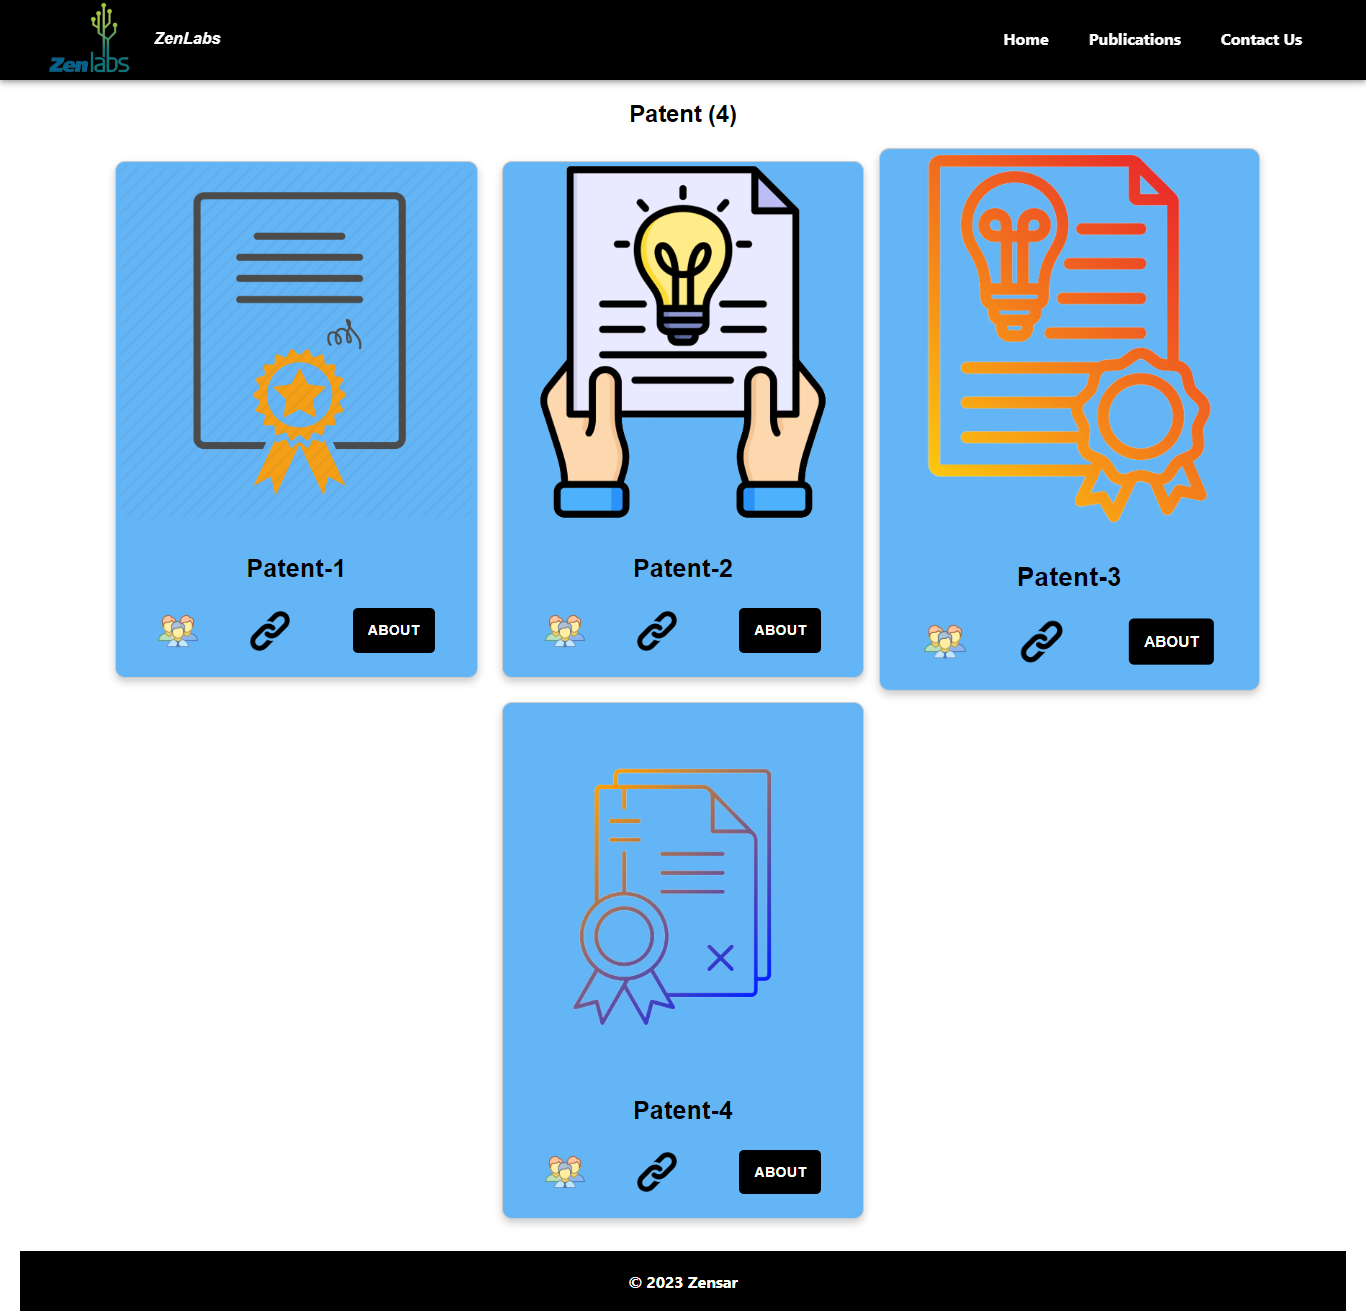
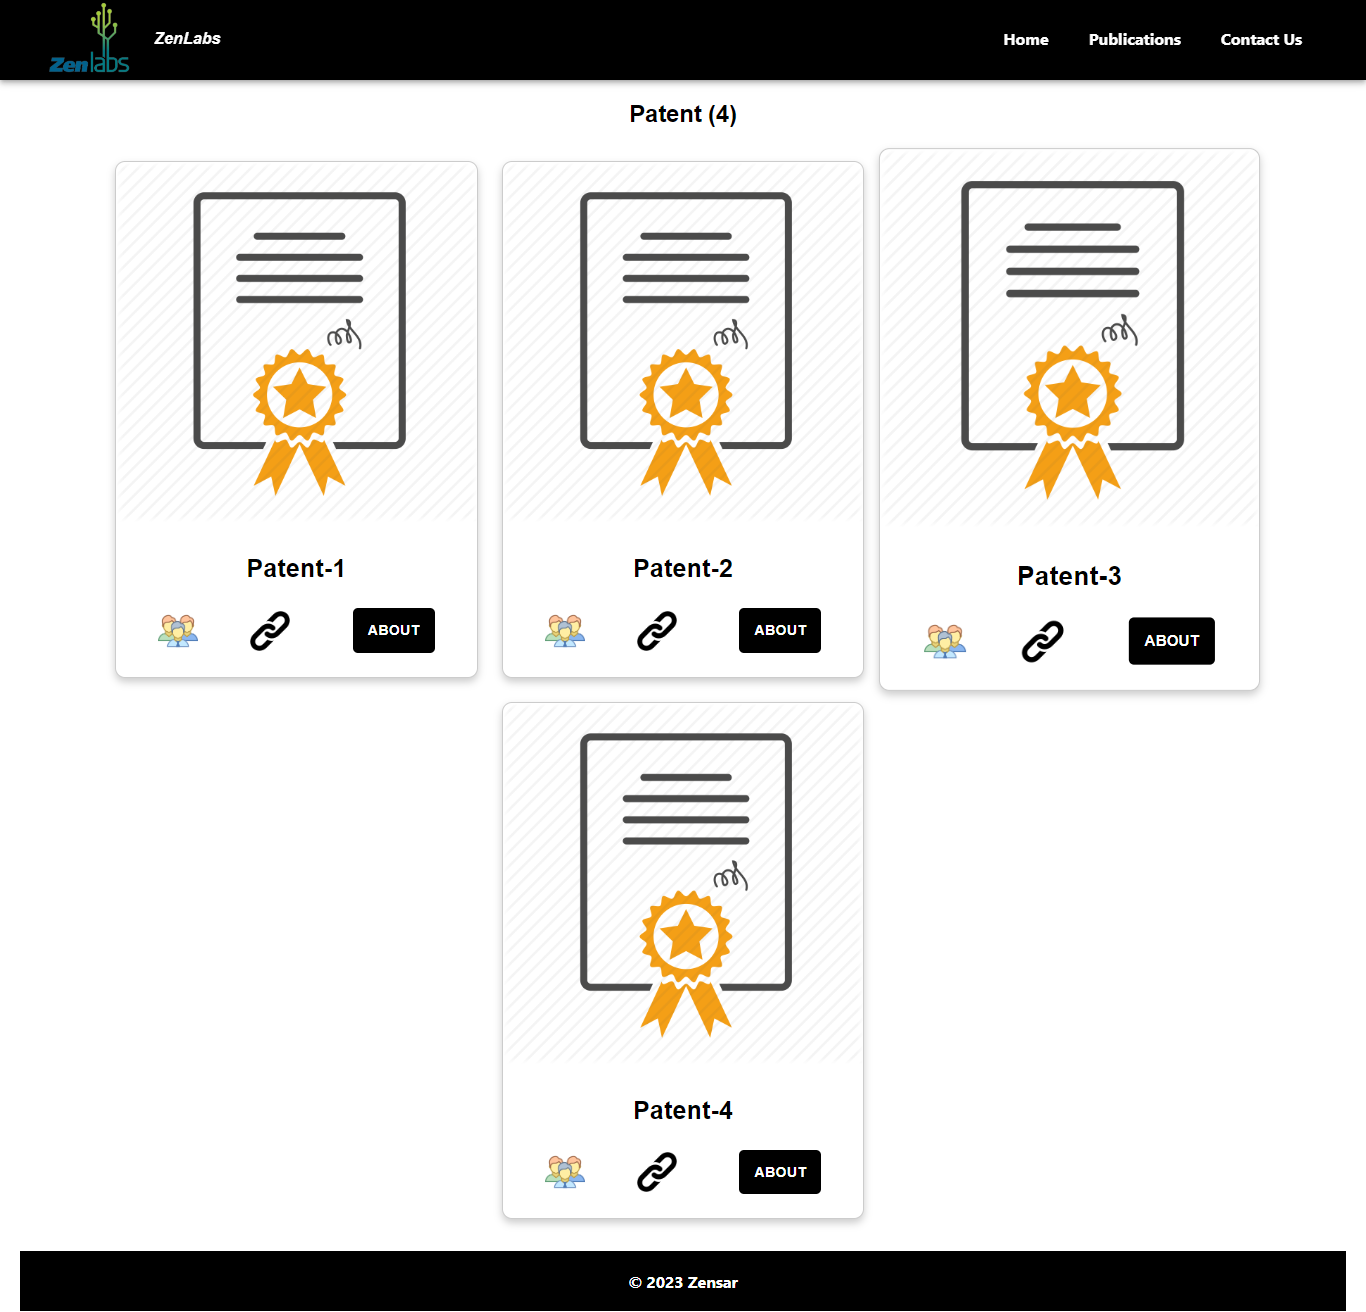
PublicationPage Final Design.

diff --git a/src/pages/Whitepapers.js b/src/pages/Whitepapers.js
@@ -3,15 +3,15 @@ import { useNavigate } from "react-router-dom";
 import { Grid, Card, CardContent, CardMedia, Typography } from "@material-ui/core";
 import Footer from "../components/Layout/Footer";
 import Layout from "../components/Layout/Layout";
-
+ 
 // eslint-disable-next-line
 import { Link } from "react-router-dom";
-
+ 
 function Whitepapers() {
   const navigate = useNavigate();
   const [cardsData, setCardsData] = useState([]);
   const [nonPatentCount, setNonPatentCount] = useState(0);
-
+ 
   useEffect(() => {
     fetch("/data/Publication.json") // Change the file path to your actual file path
       .then((response) => response.json())
@@ -23,7 +23,7 @@ function Whitepapers() {
       })
       .catch((error) => console.error("Error fetching data:", error));
   }, []);
-
+ 
   const cardStyles = {
     borderRadius: "10px",
     overflow: "hidden",
@@ -32,13 +32,13 @@ function Whitepapers() {
     transition: "transform 0.2s",
     cursor: "pointer",
   };
-
+ 
   const cardImageStyles = {
     width: "100%",
     height: "100%",
     objectFit: "cover",
   };
-
+ 
   const cardTitleStyles = {
     fontSize: "25px",
     fontWeight: "bold",
@@ -46,7 +46,7 @@ function Whitepapers() {
     textAlign: "center",
     color: "#000",
   };
-
+ 
   const headingStyles = {
     fontSize: "24px",
     fontWeight: "bold",
@@ -54,13 +54,13 @@ function Whitepapers() {
     color: "#000",
     marginTop: "20px",
   };
-
+ 
   const iconStyles = {
     width: "40px",
     height: "40px",
     cursor: "pointer",
   };
-
+ 
   const gridContainerStyles = {
     maxWidth: "1200px",
     margin: "0 auto",
@@ -68,21 +68,15 @@ function Whitepapers() {
     display: "flex",
     justifyContent: "center",
   };
-
+ 
   const cardContainerStyles = {
     minHeight: "400px",
   };
-
-  const getCardColor = (title) => {
-    if (title.startsWith("Whitepaper-")) {
-      return { backgroundColor: "#7986cb" };
-    } else if (title.startsWith("Blog-")) {
-      return { backgroundColor: "#ef9a9a" };
-    }
-    // Default color if the title doesn't match the specified cases
+ 
+  const getCardColor = () => {
     return {};
   };
-
+ 
   return (
     <Layout>
       <div style={{ minHeight: "100vh", padding: "0 20px" }}>
@@ -96,7 +90,7 @@ function Whitepapers() {
                 style={{
                   ...cardStyles,
                   ...cardContainerStyles,
-                  ...getCardColor(card.Title),
+                  ...getCardColor(),
                 }}
                 onMouseEnter={() => {
                   document.querySelector(`#card-${index}`).style.transform =
@@ -140,5 +134,5 @@ function Whitepapers() {
     </Layout>
   );
 }
-
+ 
 export default Whitepapers;

diff --git a/src/pages/Publication.js b/src/pages/Publication.js
@@ -10,18 +10,18 @@ import {
 } from "@material-ui/core";
 import Footer from "../components/Layout/Footer";
 import Layout from "../components/Layout/Layout";
-
+ 
 function Squarecard() {
   const navigate = useNavigate();
   const [cardsData, setCardsData] = useState([]);
-
+ 
   useEffect(() => {
     fetch("/data/Publication.json")
       .then((response) => response.json())
       .then((data) => setCardsData(data))
       .catch((error) => console.error("Error fetching data:", error));
   }, []);
-
+ 
   const cardStyles = {
     borderRadius: "10px",
     overflow: "hidden",
@@ -30,13 +30,13 @@ function Squarecard() {
     transition: "transform 0.2s",
     cursor: "pointer",
   };
-
+ 
   const cardImageStyles = {
     width: "100%",
     height: "auto",
     objectFit: "cover",
   };
-
+ 
   const cardTitleStyles = {
     fontSize: "25px",
     fontWeight: "bold",
@@ -44,13 +44,13 @@ function Squarecard() {
     textAlign: "center",
     color: "#000", // Change color to black
   };
-
+ 
   const iconStyles = {
     width: "40px",
     height: "40px",
     cursor: "pointer",
   };
-
+ 
   const aboutButtonStyles = {
     backgroundColor: "#000", // Black background color
     color: "#fff", // White text color
@@ -62,7 +62,7 @@ function Squarecard() {
     marginLeft: "10px",
     fontWeight: "bold",
   };
-
+ 
   const gridContainerStyles = {
     maxWidth: "1200px",
     margin: "0 auto",
@@ -70,24 +70,11 @@ function Squarecard() {
     display: "flex",
     justifyContent: "center",
   };
-
+ 
   const cardContainerStyles = {
     minHeight: "400px",
   };
-
-  const getCardColor = (title) => {
-    switch (true) {
-      case title.startsWith("Blog-"):
-        return { backgroundColor: "#ef9a9a" };
-      case title.startsWith("Patent-"):
-        return { backgroundColor: "#64b5f6" };
-      case title.startsWith("Whitepaper-"):
-        return { backgroundColor: "#7986cb" };
-      default:
-        return {};
-    }
-  };
-
+ 
   return (
     <Layout>
       <div style={{ minHeight: "100vh", padding: "0 20px" }}>
@@ -98,7 +85,7 @@ function Squarecard() {
                 style={{
                   ...cardStyles,
                   ...cardContainerStyles,
-                  ...getCardColor(card.Title),
+                  // Remove the following line for custom card color
                 }}
                 onMouseEnter={() => {
                   document.querySelector(`#card-${index}`).style.transform =
@@ -164,5 +151,5 @@ function Squarecard() {
     </Layout>
   );
 }
-
+ 
 export default Squarecard;

diff --git a/src/pages/Patents.js b/src/pages/Patents.js
@@ -10,12 +10,12 @@ import {
 } from "@material-ui/core";
 import Footer from "../components/Layout/Footer";
 import Layout from "../components/Layout/Layout";
-
+ 
 function Patents() {
   const navigate = useNavigate();
   const [cardsData, setCardsData] = useState([]);
   const [patentCount, setPatentCount] = useState(0);
-
+ 
   useEffect(() => {
     fetch("/data/Publication.json") // Change the file path to your actual file path
       .then((response) => response.json())
@@ -27,7 +27,7 @@ function Patents() {
       })
       .catch((error) => console.error("Error fetching data:", error));
   }, []);
-
+ 
   const cardStyles = {
     borderRadius: "10px",
     overflow: "hidden",
@@ -36,13 +36,13 @@ function Patents() {
     transition: "transform 0.2s",
     cursor: "pointer",
   };
-
+ 
   const cardImageStyles = {
     width: "100%",
     height: "100%",
     objectFit: "cover",
   };
-
+ 
   const cardTitleStyles = {
     fontSize: "25px",
     fontWeight: "bold",
@@ -50,7 +50,7 @@ function Patents() {
     textAlign: "center",
     color: "#000",
   };
-
+ 
   const headingStyles = {
     fontSize: "24px",
     fontWeight: "bold",
@@ -58,13 +58,13 @@ function Patents() {
     color: "#000",
     marginTop: "20px",
   };
-
+ 
   const iconStyles = {
     width: "40px",
     height: "40px",
     cursor: "pointer",
   };
-
+ 
   const aboutButtonStyles = {
     backgroundColor: "#000",
     color: "#fff",
@@ -76,7 +76,7 @@ function Patents() {
     marginLeft: "10px",
     fontWeight: "bold",
   };
-
+ 
   const gridContainerStyles = {
     maxWidth: "1200px",
     margin: "0 auto",
@@ -84,18 +84,11 @@ function Patents() {
     display: "flex",
     justifyContent: "center",
   };
-
+ 
   const cardContainerStyles = {
     minHeight: "400px",
   };
-
-  const getCardColor = (title) => {
-    if (title.startsWith("Patent-")) {
-      return { backgroundColor: "#64b5f6" };
-    }
-    return {};
-  };
-
+ 
   return (
     <Layout>
       <div style={{ minHeight: "100vh", padding: "0 20px" }}>
@@ -109,7 +102,6 @@ function Patents() {
                 style={{
                   ...cardStyles,
                   ...cardContainerStyles,
-                  ...getCardColor(card.Title),
                 }}
                 onMouseEnter={() => {
                   document.querySelector(`#card-${index}`).style.transform =
@@ -162,5 +154,5 @@ function Patents() {
     </Layout>
   );
 }
-
+ 
 export default Patents;
